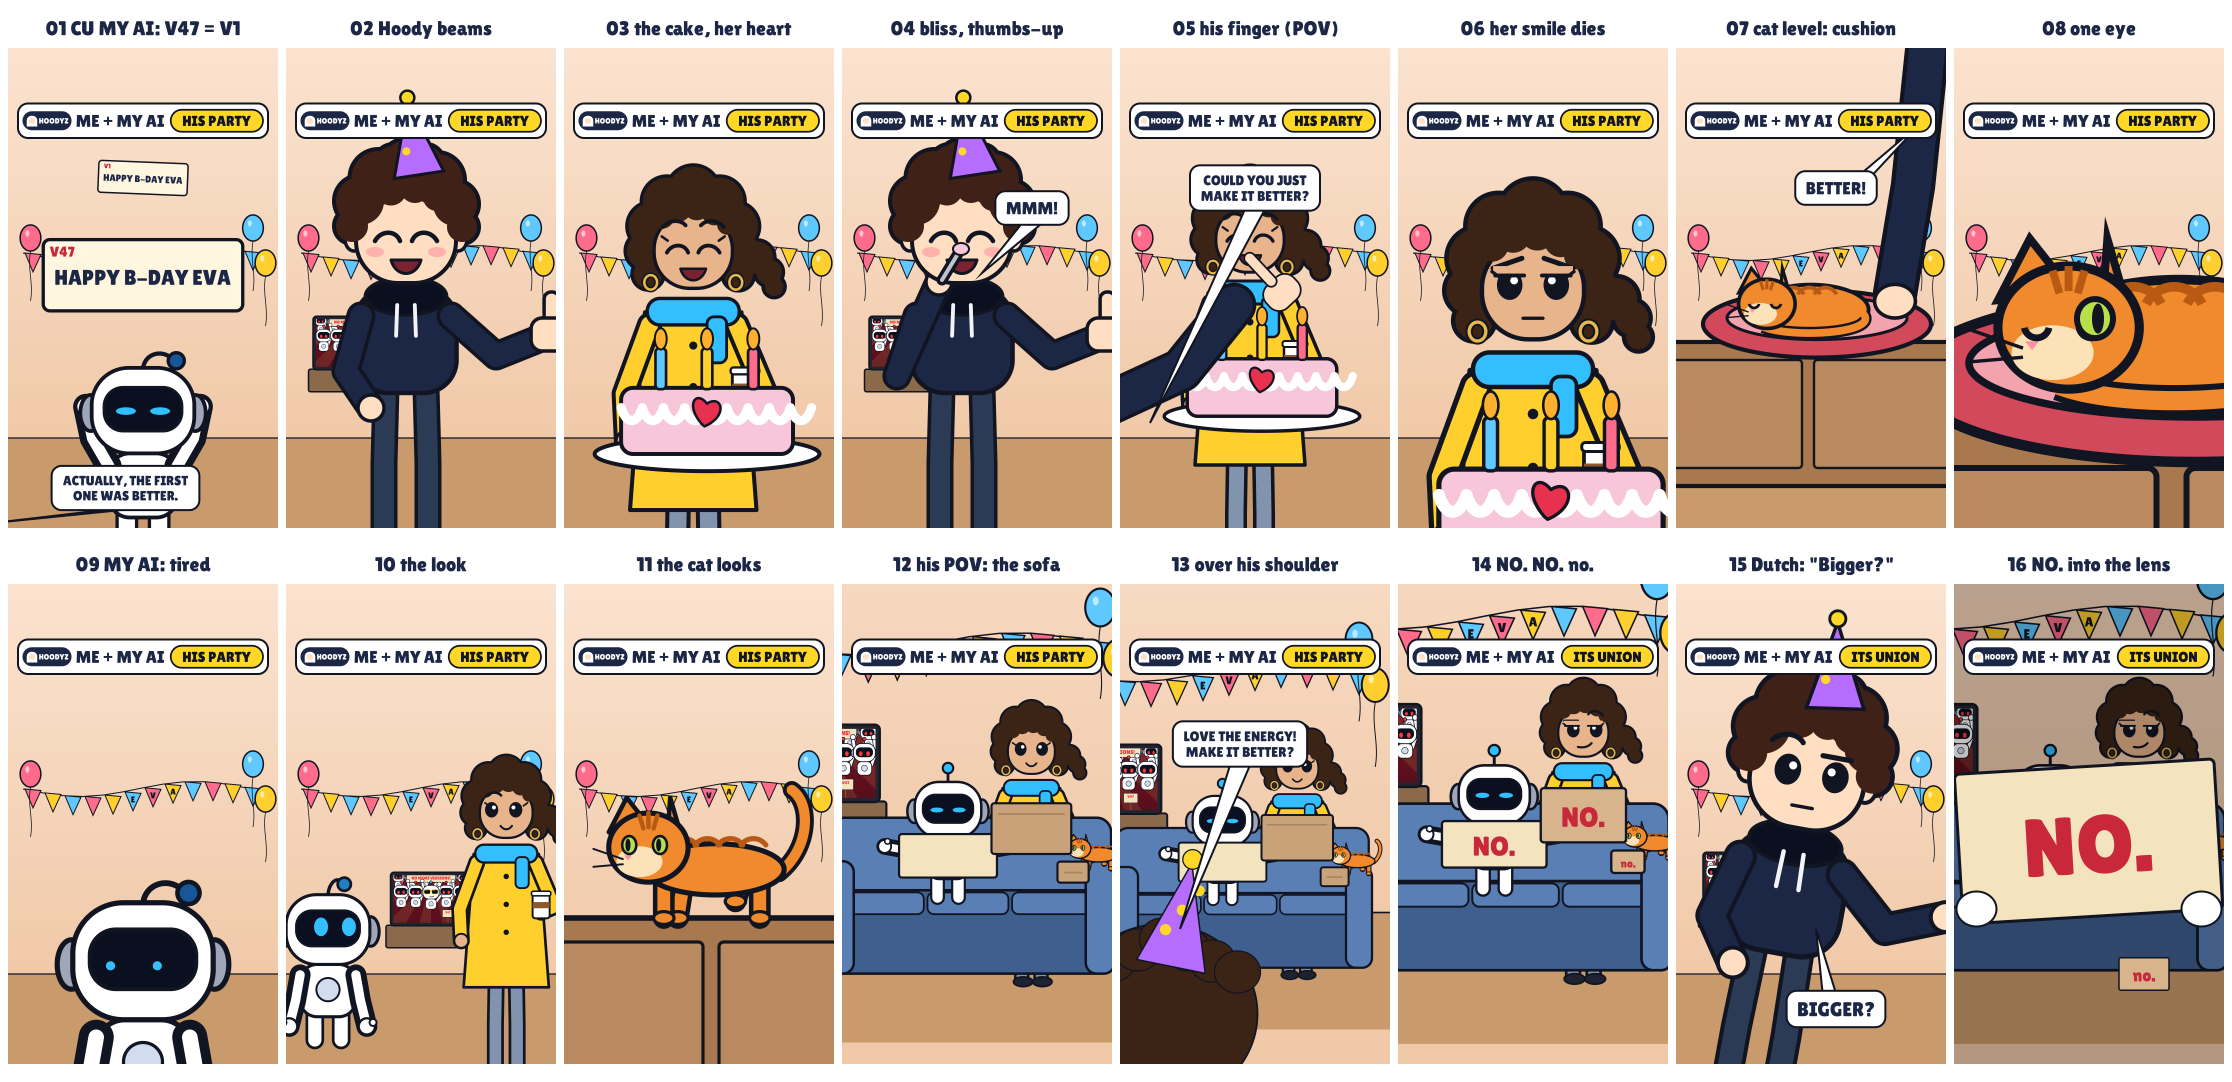
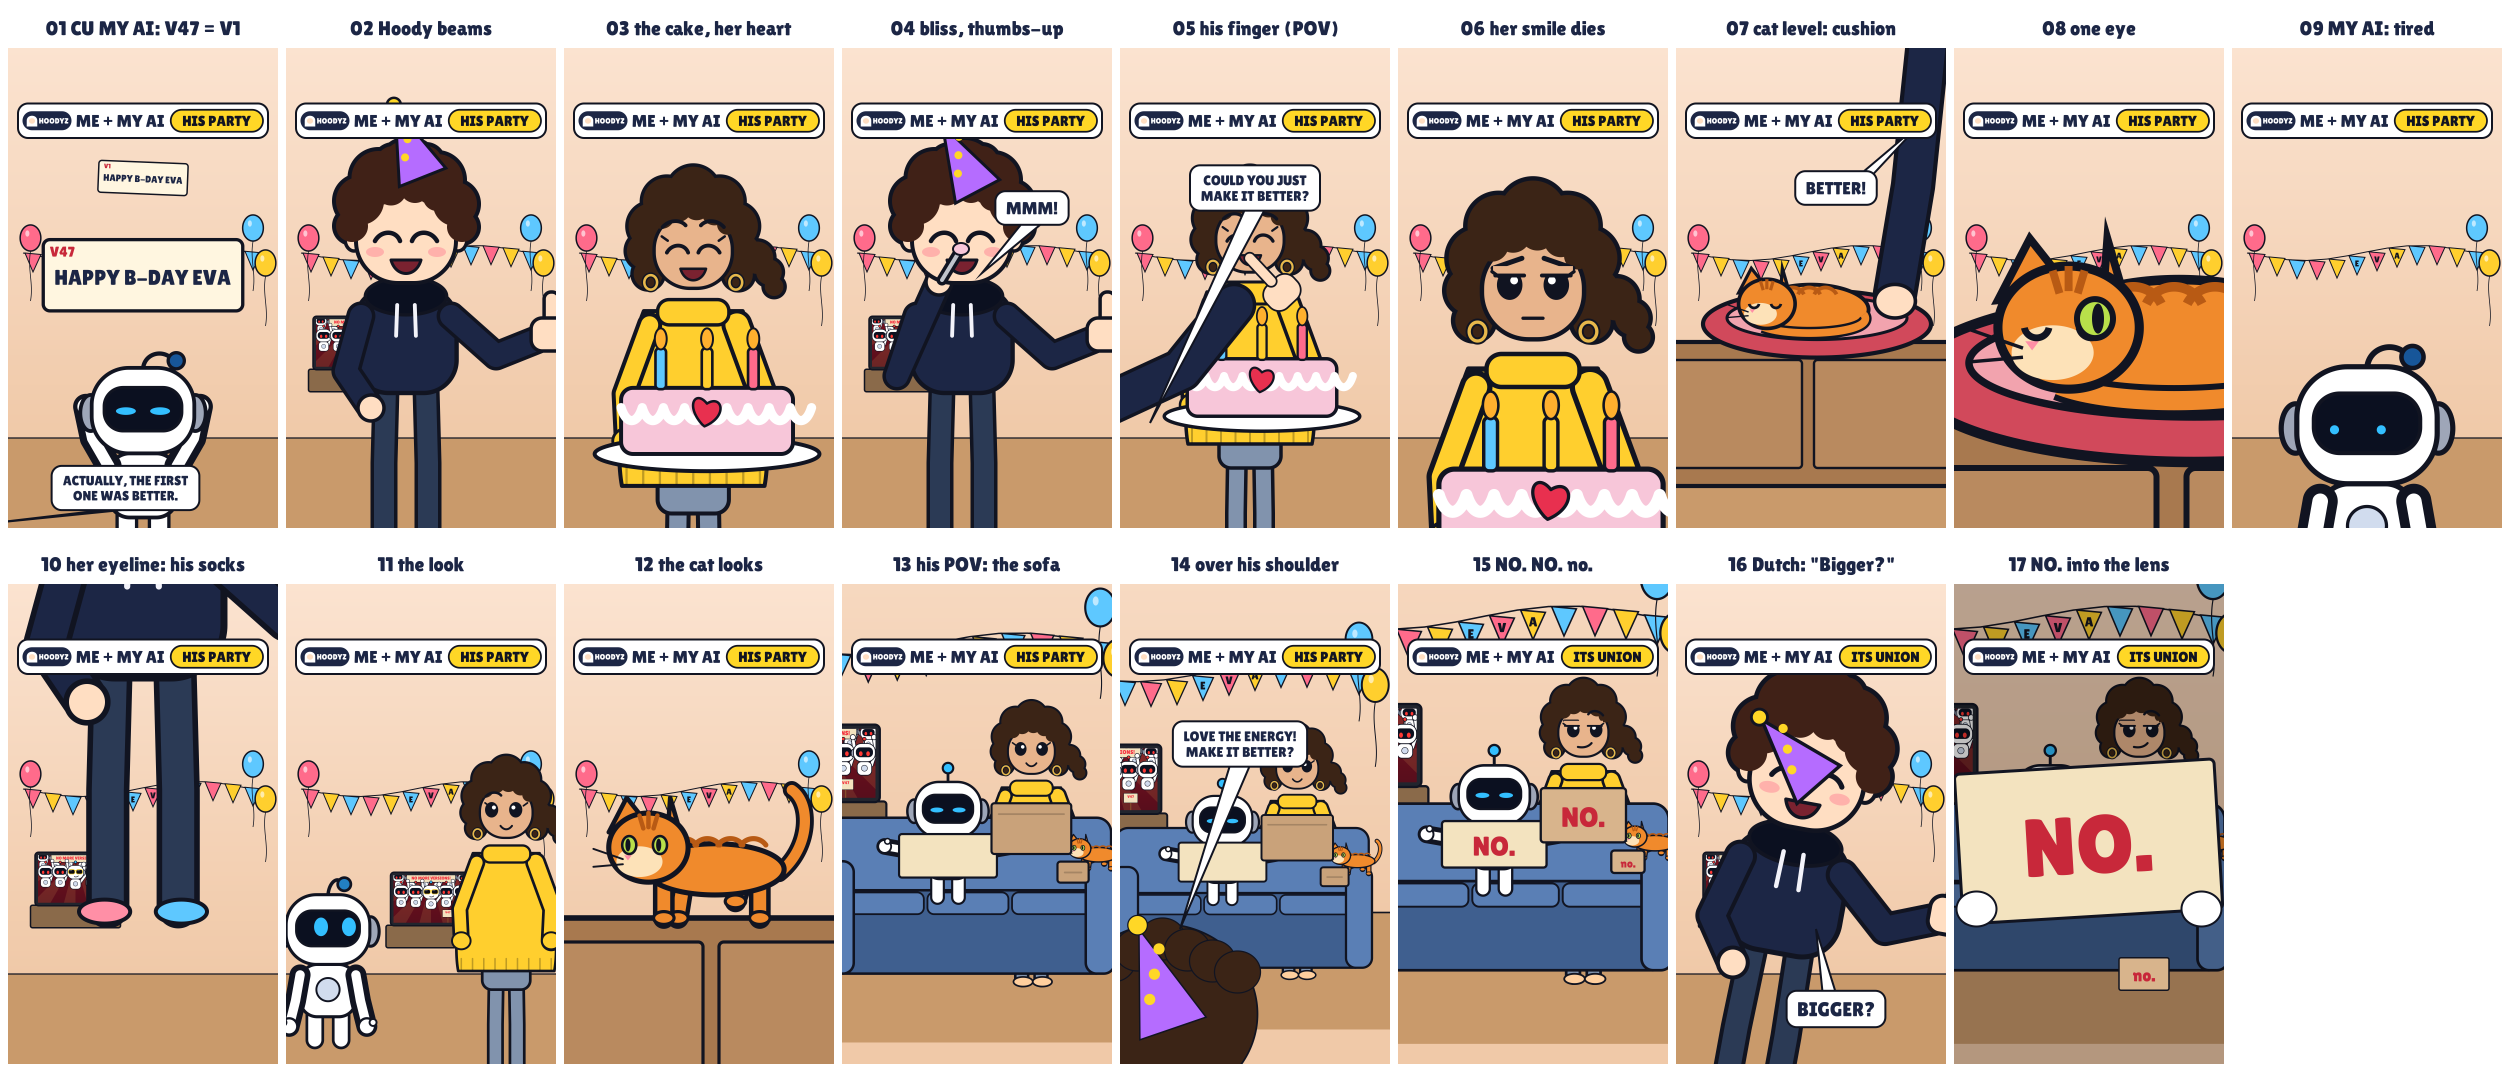
Make It Better v5.2: indoor looks in the storyboard
Eva in an oversized cosy sweater, sleeves over her fingers, socks (her happy place); Hoody in one pink and one blue sock,
his party hat slipping a notch with every demand until it covers his eyes at "Bigger?"; shot 10 now opens on her eyeline
down to his socks before she turns to MY AI. Hoody's SHOE can be a (left, right) pair; defaults unchanged.

Claude-Session: https://claude.ai/code/session_01ED8DLRS3kXn1pdhXqYBM3Q

diff --git a/make-it-better/v5/sb.py b/make-it-better/v5/sb.py
@@ -38,7 +38,7 @@ def hoody_back(c, x, y, s=1.0):
     rr(c, x - 260 * s, y + 120 * s, 520 * s, 400 * s, 120 * s); fs(c, NAVY, 7)
     ell(c, x, y, 190 * s, 180 * s); fs(c, hx('3b2416'), 7)
     for i in range(7): ell(c, x - 150 * s + i * 50 * s, y - 150 * s + abs(i - 3) * 22 * s, 46 * s, 42 * s); fs(c, hx('3b2416'), 5)
-    S.party_hat(c, (x, y + 60 * s), s * 1.4, tilt=.2)
+    S.party_hat(c, (x, y + 60 * s), s * 1.4, tilt=.2, slip=.6)
 
 ALL = []
 def sb(fn): ALL.append(fn); return fn
@@ -57,7 +57,7 @@ def s01(c, f=0):   # CU MY AI: V47 up, antenna drooped, eyes flat; V1 flashes be
 @sb
 def s02(c, f=0):   # MCU Hoody: beaming, hat, thumbs-up
     S.room(c, f)
-    c.save(); shot(c, 330, 1450, 2.0); S.hoody(c, f, 300, 1900); c.restore()
+    c.save(); shot(c, 330, 1450, 2.0); S.hoody(c, f, 300, 1900, slip=.05); c.restore()
 
 @sb
 def s03(c, f=0):   # CU the cake: proud, one crooked heart
@@ -68,7 +68,7 @@ def s03(c, f=0):   # CU the cake: proud, one crooked heart
 def s04(c, f=0):   # MCU Hoody: a forkful, bliss, a sincere thumbs-up
     S.room(c, f)
     c.save(); shot(c, 330, 1450, 2.0)
-    hands, _ = S.hoody(c, f, 300, 1900, expr='happy', arms=('chin', 'take'))
+    hands, _ = S.hoody(c, f, 300, 1900, expr='happy', arms=('chin', 'take'), slip=.25)
     limb(c, [(hands[0][0] + 6, hands[0][1] - 4), (hands[0][0] + 40, hands[0][1] - 60)], 8, hx('c0c4cc'))      # the fork
     ell(c, hands[0][0] + 44, hands[0][1] - 66, 16, 12); fs(c, hx('f7c6d9'), 4)
     c.restore()
@@ -105,11 +105,16 @@ def s09(c, f=0):   # CU MY AI: looks at V47, then away; a tired blink
     c.save(); shot(c, 560, 1450, 2.6); A.myai(c, 560, 1900, 1.0, eye='blank', look=(-14, 6), droop=1.0, arms=('down', 'down')); c.restore()
 
 @sb
+def s10a(c, f=0):  # her eyeline, first: hat... down to his socks (one pink, one blue)... back up
+    S.room(c, f)
+    c.save(); shot(c, 300, 1820, 3.2); S.hoody(c, f, 300, 1900, slip=.4); c.restore()
+
+@sb
 def s10(c, f=0):   # two-shot, matching eyelines: recognition; HARV's fist on the TV behind, an easter egg
     S.room(c, f, tv_at=(430, 1260))
     c.save(); shot(c, 580, 1420, 1.55)
     A.myai(c, 340, 1900, 1.0, eye='open', look=(18, -4), droop=.6, arms=('down', 'down'))
-    E.eva(c, 800, 1990, 1.0, expr='notices', gaze=-18)
+    E.eva(c, 800, 1990, 1.0, expr='notices', gaze=-18, **S.EVA_IN)
     c.restore()
 
 @sb
@@ -123,7 +128,7 @@ def sofa(c, f, flip=False, k=1.25, cy=1450):
 def union_only(c, f, flip):
     """kp.union without its topbar and camera: the room, the sofa, the three and their signs."""
     S.room(c, f, tv_at=(60, 1150))
-    E.eva(c, 790, 1760, .95, expr='evacalm' if not flip else 'amused')
+    E.eva(c, 790, 1760, .95, expr='evacalm' if not flip else 'amused', **S.EVA_IN)
     S.sofa_back(c); S.sofa_front(c)
     A.myai(c, 560, 1520, .85, eye='focus', droop=0.0, arms=('offer', 'offer'))
     K.cat(c, 975, 1440, .5, pose='walk', phase=0, look=-1)
@@ -148,7 +153,7 @@ def s14(c, f=0):   # low angle, straight on: NO. NO. ... no.
 @sb
 def s15(c, f=0):   # CU Hoody, the Dutch angle (once): the smile held too long, then "Bigger?"
     S.room(c, f)
-    c.save(); shot(c, 330, 1420, 2.3, rot=.18); S.hoody(c, f, 300, 1900, expr='designer', thumb=False, gaze=12); c.restore()
+    c.save(); shot(c, 330, 1420, 2.3, rot=.18); S.hoody(c, f, 300, 1900, expr='happy', thumb=True, slip=1.0); c.restore()
     R.bubble(c, ['BIGGER?'], 10, (560, 1380), cy=1700, cx=640, size=80)
 
 @sb
@@ -162,15 +167,15 @@ def s16(c, f=0):   # extreme foreground: MY AI shoves its NO into the lens; the 
     S.card_front(c, 760, 1560, 200, 130, 'no.', 70, 'box')
 
 NAMES = ['CU MY AI: V47 = V1', 'Hoody beams', 'the cake, her heart', 'bliss, thumbs-up', 'his finger (POV)', 'her smile dies',
-         'cat level: cushion', 'one eye', 'MY AI: tired', 'the look', 'the cat looks', 'his POV: the sofa', 'over his shoulder',
+         'cat level: cushion', 'one eye', 'MY AI: tired', 'her eyeline: his socks', 'the look', 'the cat looks', 'his POV: the sofa', 'over his shoulder',
          'NO. NO. no.', 'Dutch: "Bigger?"', 'NO. into the lens']
-PILL = ['HIS PARTY'] * 13 + ['ITS UNION'] * 3
+PILL = ['HIS PARTY'] * 14 + ['ITS UNION'] * 3
 if __name__ == '__main__':
     surfs = []
     for i, fn in enumerate(ALL):
         s = cairo.ImageSurface(cairo.FORMAT_ARGB32, W, H); c = cairo.Context(s); fn(c, 0); Sh.topbar(c, PILL[i])
         s.write_to_png(os.path.join(HERE, f'sb_{i + 1:02d}.png')); surfs.append(s)
-    cols, k = 8, .25; sw, sh = int(W * k), int(H * k)
+    cols, k = 9, .25; sw, sh = int(W * k), int(H * k)
     out = cairo.ImageSurface(cairo.FORMAT_ARGB32, cols * (sw + 8) + 8, 2 * (sh + 56) + 10); c = cairo.Context(out); c.set_source_rgb(1, 1, 1); c.paint()
     for i, s in enumerate(surfs):
         x, y = 8 + (i % cols) * (sw + 8), 48 + (i // cols) * (sh + 56)

diff --git a/make-it-better/v5/kp.py b/make-it-better/v5/kp.py
@@ -57,20 +57,25 @@ def sofa_front(c, x0=230, x1=1010, y=1300):
     for i in range(3): rr(c, x0 + 40 + i * (x1 - x0 - 80) / 3, y + 206, (x1 - x0 - 80) / 3 - 10, 60, 18); fs(c, SOFA, 5)
     for x in (x0 - 10, x1 - 70): rr(c, x, y + 120, 80, 310, 30); fs(c, SOFA, 7)          # the arms
 
-def party_hat(c, head, s=1.0, tilt=-.15):
+def party_hat(c, head, s=1.0, tilt=-.15, slip=0.0):
+    """slip 0..1: the hat slides a notch with every demand, until it's over his eyes ("Bigger?"). He never notices."""
     x, y = head
-    c.save(); c.translate(x + 20 * s, y - 150 * s); c.rotate(tilt)
+    tilt = tilt - .2 - .55 * slip
+    c.save(); c.translate(x + 20 * s - 30 * s * slip, y - 150 * s + 150 * s * slip); c.rotate(tilt)
     c.move_to(-50 * s, 40 * s); c.line_to(0, -110 * s); c.line_to(50 * s, 40 * s); c.close_path(); fs(c, hx('b56cff'), 6)
     for i in range(3): ell(c, -18 * s + i * 18 * s, -10 * s - i * 32 * s, 8 * s, 8 * s); c.set_source_rgb(*YEL); c.fill()
     ell(c, 0, -116 * s, 14 * s, 14 * s); fs(c, YEL, 5)
     c.restore()
 
-def hoody(c, f, x, gy, s=1.0, expr='happy', arms=('rest', 'take'), thumb=True, hat=True, gaze=0, rot=0, pose='stand'):
+SOCKS = [hx('ff8fa6'), hx('5ec8ff')]                                                     # one pink, one blue
+def hoody(c, f, x, gy, s=1.0, expr='happy', arms=('rest', 'take'), thumb=True, hat=True, gaze=0, rot=0, pose='stand', slip=0.0):
+    old = R.SHOE; R.SHOE = SOCKS
     hands, _ = R.hoody(c, x, gy, s, expr=expr, pose=pose, arms=arms, f=f, blink=False, gaze=gaze, rot=rot)
     if thumb: P4.thumbs_up(c, hands[1][0] + 8 * s, hands[1][1] - 6 * s, s)
     dy = -(0 if pose == 'sit' else 300 * s) - 326 * s                                          # the head centre, turned with the body
     head = (x - dy * math.sin(rot), gy + dy * math.cos(rot))
-    if hat: party_hat(c, head, s, tilt=-.15 + rot)
+    R.SHOE = old
+    if hat: party_hat(c, head, s, tilt=-.15 + rot, slip=slip)
     return hands, head
 
 def cake(c, x, y, s=1.0, sag=0.0):
@@ -87,8 +92,9 @@ def cake(c, x, y, s=1.0, sag=0.0):
         c.save(); c.translate(fx, fy); c.rotate(sag * 1.3); ell(c, 0, 0, 9, 16 - 6 * sag); fs(c, hx('ffb02e'), 3); c.restore()
     c.restore()
 
+EVA_IN = dict(outfit='sweater', cup=False, feet=hx('ffcf9e'))
 def eva_cake(c, x, gy, s, expr='evacalm', gaze=0, sag=0.0):
-    E.eva(c, x, gy, s, expr=expr, gaze=gaze)
+    E.eva(c, x, gy, s, expr=expr, gaze=gaze, **EVA_IN)
     hy = gy - 690 * s
     cake(c, x + 24 * s, hy + 286 * s, 1.15 * s, sag)                     # held in front: covers her usual coffee
 
@@ -160,12 +166,12 @@ def p03(c, f=0):   # the cat: he studies the bed like a designer, nudges it 3 cm
 def p04(c, f=0):   # the look: MY AI and Eva, same problem, same thought; HARV small on the TV between them
     c.save(); cam(c, 1.45, 540, 1900); room(c, f, tv_at=(420, 1250))
     A.myai(c, 300, 1900, 1.0, eye='focus', look=(16, 0), droop=1.0, arms=('down', 'down'))
-    E.eva(c, 800, 1990, 1.0, expr='notices', gaze=-16)
+    E.eva(c, 800, 1990, 1.0, expr='notices', gaze=-16, **EVA_IN)
     c.restore(); Sh.topbar(c, 'HIS PARTY')
 
 def union(c, f, flip=False, hoody_in=None):
     c.save(); cam(c, 1.12); room(c, f, tv_at=(60, 1150))
-    E.eva(c, 790, 1760, .95, expr='evacalm' if not flip else 'amused')                       # behind the sofa: reads as sitting
+    E.eva(c, 790, 1760, .95, expr='evacalm' if not flip else 'amused', **EVA_IN)                       # behind the sofa: reads as sitting
     sofa_back(c)
     sofa_front(c)
     A.myai(c, 560, 1520, .85, eye='focus', droop=0.0, arms=('offer', 'offer'))              # standing on the cushion

diff --git a/perfect-date/characters/eva.py b/perfect-date/characters/eva.py
@@ -77,11 +77,12 @@ def eva(c, x, gy, s, expr='evacalm', sip=0.0, gaze=0, tilt=0, leash=True, op=0, 
     if walk is not None: gy -= abs(math.sin(walk)) * 7 * s
     hy = gy - 690 * s
     lw_ = max(3, 7 * s)
-    if outfit == 'sweater':
-        rr(c, x - 62 * s, gy - 330 * s, 124 * s, 110 * s, 24 * s); fs(c, TROUS, lw_)                      # trousers to the waist
-        c.move_to(x - 84 * s, hy + 120 * s); c.line_to(x + 84 * s, hy + 120 * s); c.line_to(x + 104 * s, gy - 300 * s); c.line_to(x - 104 * s, gy - 300 * s)
+    if outfit == 'sweater':                                                    # oversized, cosy: her happy place
+        rr(c, x - 62 * s, gy - 330 * s, 124 * s, 110 * s, 24 * s); fs(c, TROUS, lw_)
+        c.move_to(x - 86 * s, hy + 118 * s); c.curve_to(x - 126 * s, hy + 220 * s, x - 136 * s, gy - 330 * s, x - 124 * s, gy - 268 * s)
+        c.line_to(x + 124 * s, gy - 268 * s); c.curve_to(x + 136 * s, gy - 330 * s, x + 126 * s, hy + 220 * s, x + 86 * s, hy + 118 * s)
         c.close_path(); fs(c, COAT, lw_)
-        for i in range(7): c.move_to(x - 90 * s + i * 30 * s, gy - 330 * s); c.line_to(x - 90 * s + i * 30 * s, gy - 302 * s); c.set_source_rgba(0, 0, 0, .25); c.set_line_width(4 * s); c.stroke()
+        for i in range(9): c.move_to(x - 116 * s + i * 29 * s, gy - 300 * s); c.line_to(x - 116 * s + i * 29 * s, gy - 272 * s); c.set_source_rgba(0, 0, 0, .25); c.set_line_width(4 * s); c.stroke()
     elif outfit == 'dress':
         c.move_to(x - 78 * s, hy + 120 * s); c.line_to(x + 78 * s, hy + 120 * s); c.line_to(x + 132 * s, gy - 190 * s); c.line_to(x - 132 * s, gy - 190 * s)
         c.close_path(); fs(c, COAT, lw_)
@@ -96,7 +97,9 @@ def eva(c, x, gy, s, expr='evacalm', sip=0.0, gaze=0, tilt=0, leash=True, op=0, 
         coffee(c, hxp, hyp + 4 * s, s)
     else:
         rh = (x + 116 * s, hy + 344 * s)
-        limb(c, [(x + 76 * s, hy + 142 * s), (x + 120 * s, hy + 262 * s), rh], 30 * s, COAT); ell(c, *rh, 18 * s, 18 * s); fs(c, SKIN_E, max(3, 5 * s))
+        limb(c, [(x + 76 * s, hy + 142 * s), (x + 120 * s, hy + 262 * s), rh], (40 if outfit == 'sweater' else 30) * s, COAT)
+        if outfit == 'sweater': ell(c, *rh, 24 * s, 22 * s); fs(c, COAT, max(3, 5 * s))           # sleeve over the fingers
+        else: ell(c, *rh, 18 * s, 18 * s); fs(c, SKIN_E, max(3, 5 * s))
     if pose == 'hip':
         lh = (x - 96 * s, hy + 318 * s)
         limb(c, [(x - 76 * s, hy + 142 * s), (x - 168 * s, hy + 236 * s), lh], 30 * s, COAT)
@@ -110,7 +113,8 @@ def eva(c, x, gy, s, expr='evacalm', sip=0.0, gaze=0, tilt=0, leash=True, op=0, 
     else:
         lh = (x - 116 * s, hy + 344 * s)
         limb(c, [(x - 76 * s, hy + 142 * s), (x - 120 * s, hy + 262 * s), lh], 30 * s, COAT)
-    ell(c, *lh, 18 * s, 18 * s); fs(c, SKIN_E, max(3, 5 * s))
+    if outfit == 'sweater': ell(c, *lh, 24 * s, 22 * s); fs(c, COAT, max(3, 5 * s))
+    else: ell(c, *lh, 18 * s, 18 * s); fs(c, SKIN_E, max(3, 5 * s))
     if outfit == 'coat':
         rr(c, x - 80 * s, hy + 96 * s, 160 * s, 46 * s, 22 * s); fs(c, SCARF, max(3, 6 * s))     # scarf
         rr(c, x + 24 * s, hy + 128 * s, 34 * s, 80 * s, 12 * s); fs(c, SCARF, max(3, 5 * s))

diff --git a/perfect-date/render.py b/perfect-date/render.py
@@ -119,6 +119,10 @@ def guitar_points(x, hy, s):
     at = lambda d: (body[0] + d * GS * s * math.cos(GROT), body[1] + d * GS * s * math.sin(GROT))
     return body, at(250), at(440)
 
+def _shoe(q):
+    """SHOE may be one colour or a (left, right) pair: socks at home, odd ones."""
+    return SHOE[0 if q < 0 else 1] if isinstance(SHOE, list) else SHOE
+
 def hoody(c, x, gy, s, expr='calm', pose='stand', arms=('rest', 'rest'), gaze=0, op=0, rot=0, prop=None, seat=None,
           guitar=None, f=0, legs='dangle', blink=None, hair=False, soles=False, step=None):
     """pose 'stand': feet on gy. 'sit': gy is the seat. 'float': gy is where the feet hang, toes down, legs swaying.
@@ -129,7 +133,7 @@ def hoody(c, x, gy, s, expr='calm', pose='stand', arms=('rest', 'rest'), gaze=0,
     if pose == 'sit':
         for q in (-1, 1):
             limb(c, [(x + q * 50 * s, waist + 30 * s), (x + q * 54 * s, waist + 168 * s)], 40 * s, JEANS)
-            ell(c, x + q * 58 * s, waist + 176 * s, 32 * s, 15 * s); fs(c, SHOE, max(3, 5 * s))
+            ell(c, x + q * 58 * s, waist + 176 * s, 32 * s, 15 * s); fs(c, _shoe(q), max(3, 5 * s))
         if seat: seat_front(c, seat[0], seat[1], gy)
         for q in (-1, 1): ell(c, x + q * 50 * s, waist + 26 * s, 36 * s, 30 * s); fs(c, JEANS, max(3, 6 * s))
     else:
@@ -154,7 +158,7 @@ def hoody(c, x, gy, s, expr='calm', pose='stand', arms=('rest', 'rest'), gaze=0,
                 foot = (knee[0] + math.cos(ph + .8) * 40 * s, knee[1] + 130 * s); toe = .3 * q
             limb(c, [hip, knee, foot], 40 * s, JEANS)
             c.save(); c.translate(foot[0] + q * 4 * s, foot[1] + 6 * s); c.rotate(toe)
-            ell(c, 0, 0, 32 * s, 15 * s); fs(c, SHOE, max(3, 5 * s))
+            ell(c, 0, 0, 32 * s, 15 * s); fs(c, _shoe(q), max(3, 5 * s))
             if soles: ell(c, 0, 6 * s, 25 * s, 8 * s); c.set_source_rgb(*hx('8a8f9c')); c.fill()
             c.restore()
     sl, sr_ = K.hoodie(c, x, neck, s * 1.1)
